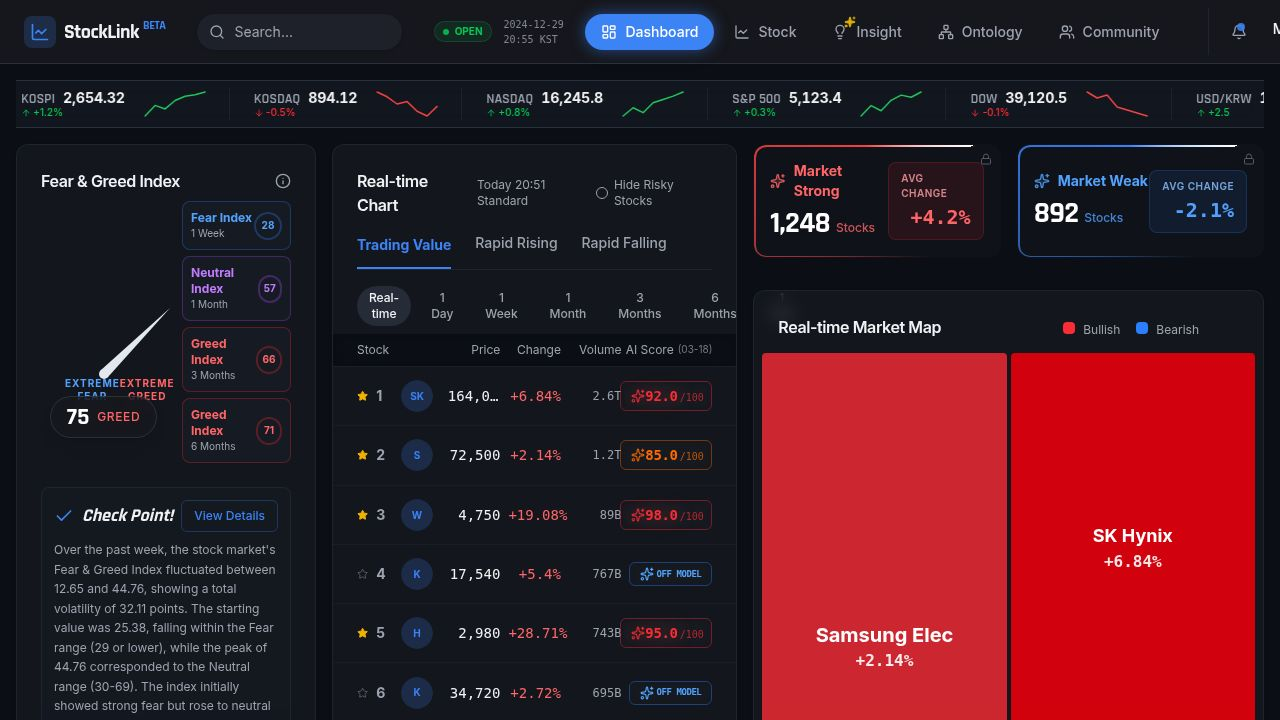
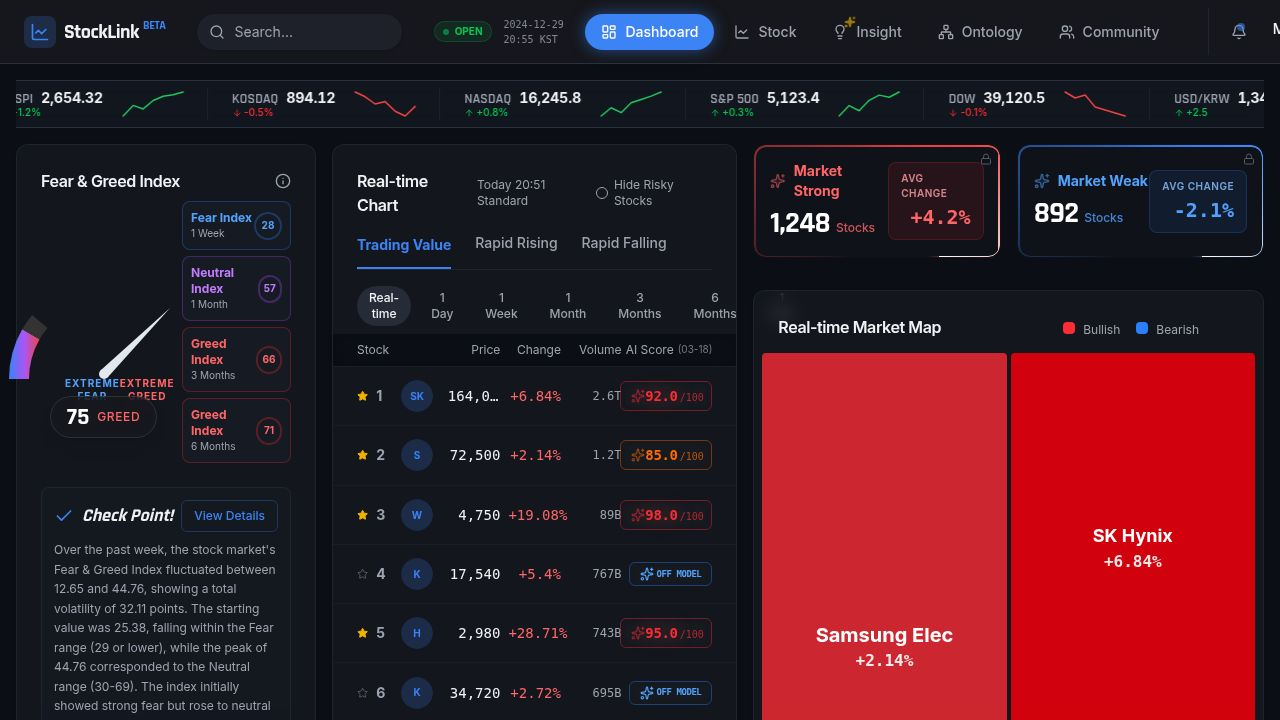
Updates

diff --git a/index.html b/index.html
@@ -18,7 +18,7 @@
     <link rel="preconnect" href="https://fonts.googleapis.com">
     <link rel="preconnect" href="https://fonts.gstatic.com" crossorigin>
     <link href="https://fonts.googleapis.com/css2?family=Inter:wght@300;400;500;600;700&family=Rajdhani:wght@400;500;600;700&display=swap" rel="stylesheet">
-    <script type="module" crossorigin src="./assets/index-BOAXzYjU.js"></script>
+    <script type="module" crossorigin src="./assets/index-B67fOv4z.js"></script>
     <link rel="stylesheet" crossorigin href="./assets/index-aP-JnIOS.css">
   </head>
   <body>